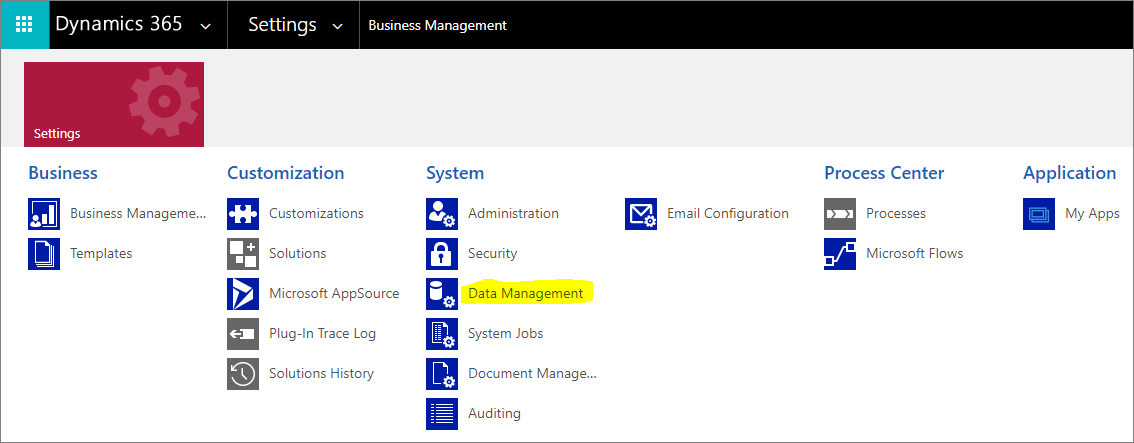
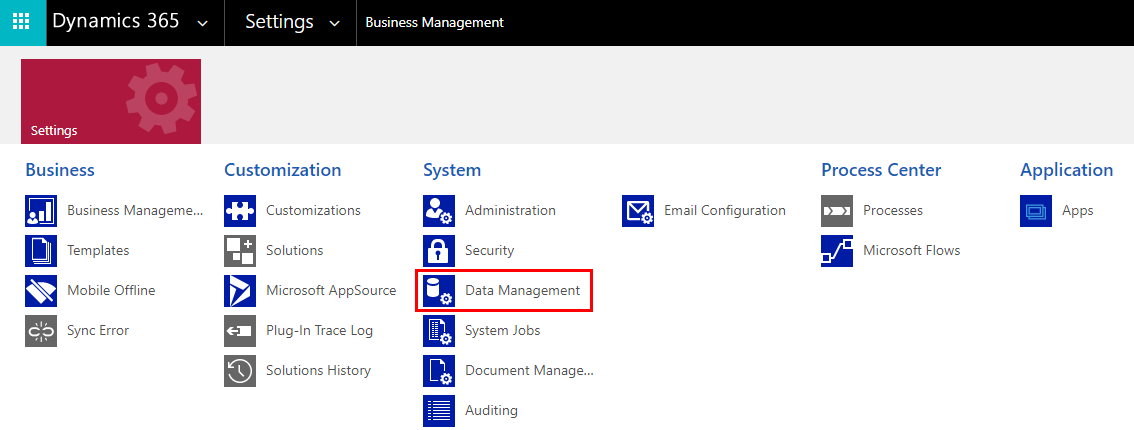
Replace highlight with red border

diff --git a/ai-builder-docs/prediction-data-prep.md b/ai-builder-docs/prediction-data-prep.md
@@ -7,7 +7,7 @@ ms.topic: conceptual
 ms.custom: 
 ms.date: 03/19/2021
 ms.author: norliu
-ms.reviewer: kvivek
+ms.reviewer: v-aangie
 ---
 
 # Data preparation
